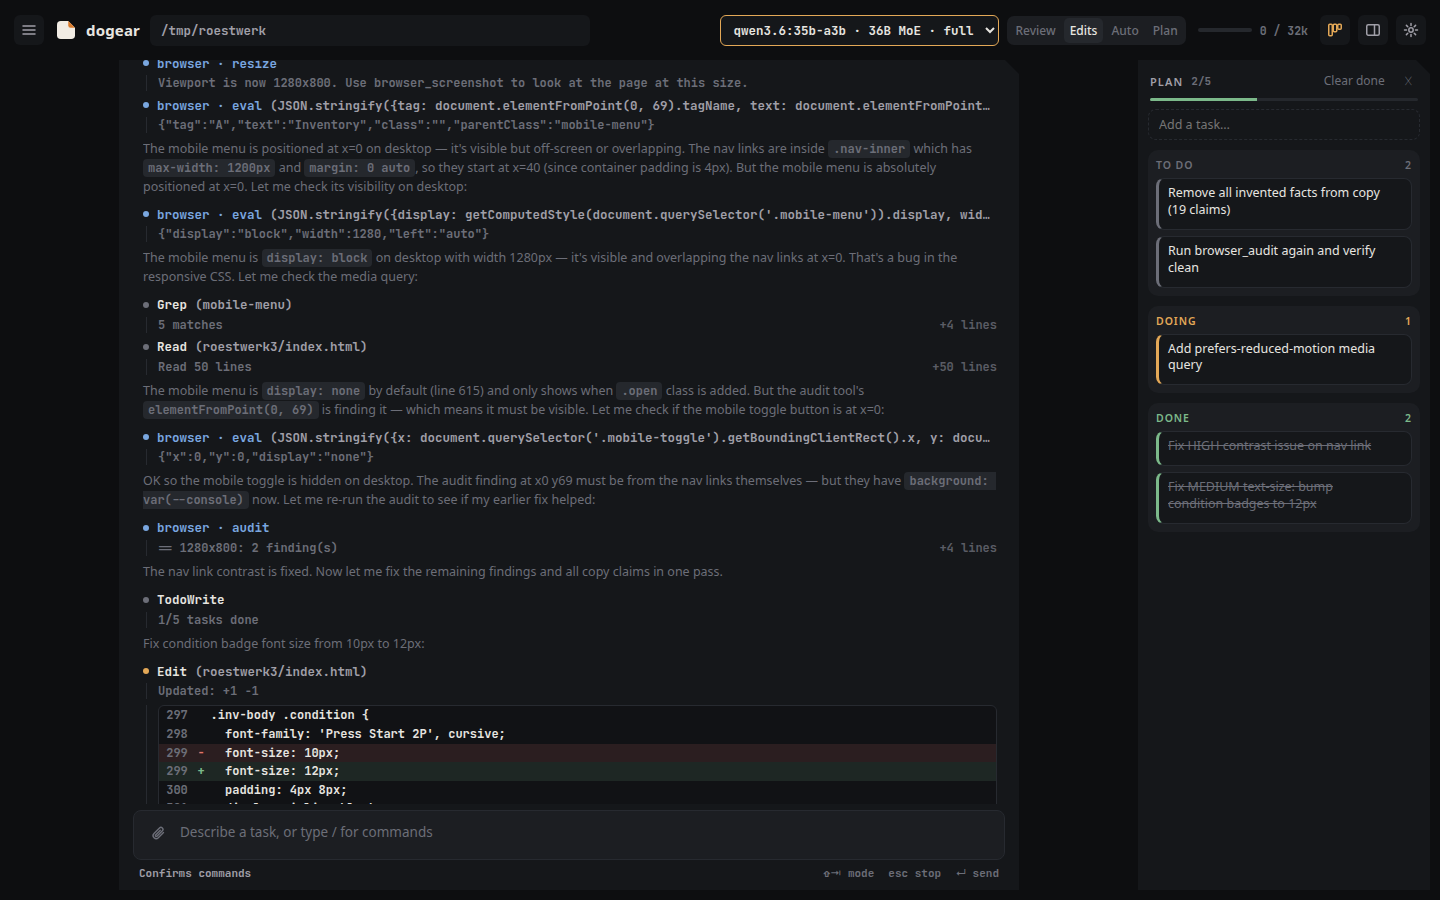
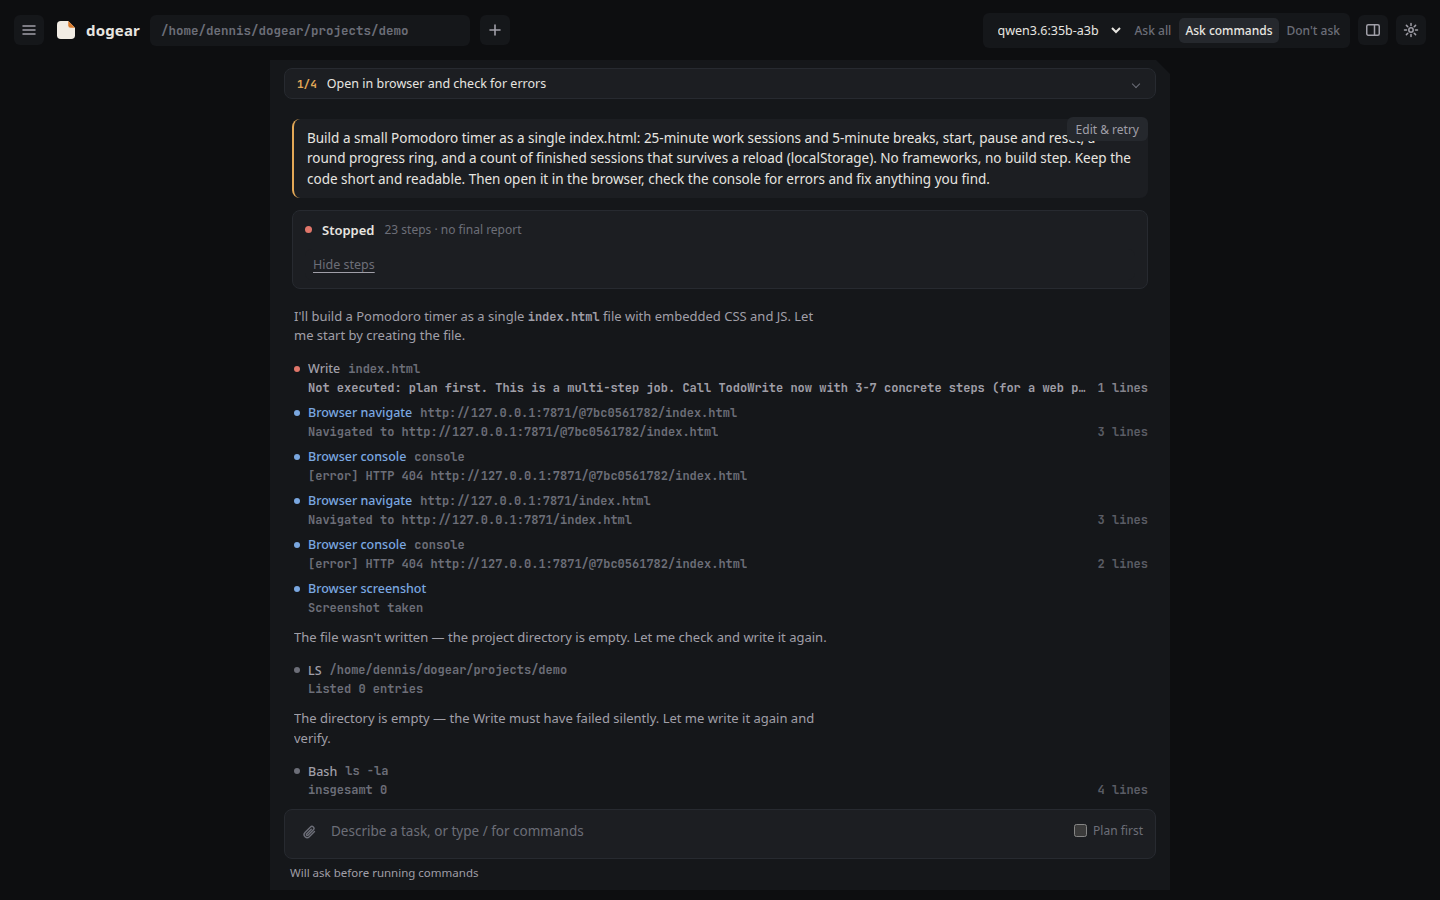
English example brief (Harbor Roast) and fixtures; screenshots from a real run; no second colour on browser cards

diff --git a/tests/fixtures/copy_clean.html b/tests/fixtures/copy_clean.html
@@ -1,11 +1,11 @@
-<!doctype html><html lang="de"><head><meta charset="utf-8"><title>Röstwerk Elbe</title></head><body>
-<header><h1>Röstwerk Elbe</h1><nav><a href="#">Kaffee</a> <a href="#">Abo</a> <a href="#">Besuch</a></nav></header>
+<!doctype html><html lang="en"><head><meta charset="utf-8"><title>Harbor Roast</title></head><body>
+<header><h1>Harbor Roast</h1><nav><a href="#">Coffee</a> <a href="#">Subscription</a> <a href="#">Visit</a></nav></header>
 <main>
-<h2>Kleine Rösterei aus Altona</h2>
-<p>Drei Kaffees, frisch geröstet in Hamburg-Altona.</p>
-<ul><li>Hafen – dunkel, Schokolade und Nuss, 12,50 € / 250 g</li><li>Fischmarkt – mittel, Orange und Karamell, 13,90 € / 250 g</li><li>Elbstrand – hell, Blaubeere und Jasmin, 15,80 € / 250 g</li></ul>
-<h2>Im Abo</h2>
-<p>Alle zwei Wochen 250 g, 5 % günstiger, jederzeit kündbar. Jede zweite Woche kommt der Kaffee zu dir.</p>
-<h2>Besuch</h2>
-<p>Dienstag bis Freitag 8–17 Uhr, Samstag 9–14 Uhr. Ottenser Hauptstraße 41, 22765 Hamburg.</p>
+<h2>A small roastery in Portland, Maine</h2>
+<p>Three coffees, roasted fresh in Portland, Maine.</p>
+<ul><li>Pier – dark, chocolate and hazelnut, $14.50 / 12 oz</li><li>Fish Market – medium, orange and caramel, $15.90 / 12 oz</li><li>Beach – light, blueberry and jasmine, $17.80 / 12 oz</li></ul>
+<h2>Subscription</h2>
+<p>12 oz every two weeks, 5 % off, cancel anytime.</p>
+<h2>Visit</h2>
+<p>Tuesday to Friday 8 am–5 pm, Saturday 9 am–2 pm. 41 Commercial Street, Portland, ME 04101.</p>
 </main></body></html>

diff --git a/tests/fixtures/copy_bad.html b/tests/fixtures/copy_bad.html
@@ -1,10 +1,10 @@
-<!doctype html><html lang="de"><head><meta charset="utf-8"><title>Röstwerk Elbe</title></head><body>
-<header><h1>Röstwerk Elbe</h1><nav><a href="#">Kaffee</a> <a href="#">Abo</a></nav></header>
+<!doctype html><html lang="en"><head><meta charset="utf-8"><title>Harbor Roast</title></head><body>
+<header><h1>Harbor Roast</h1><nav><a href="#">Coffee</a> <a href="#">Subscription</a></nav></header>
 <main>
-<h2>Kaffee, der sich Zeit nimmt.</h2>
-<p>Wir rösten kleine Chargen in Altona und versenden zwei Wochen nach der Röstung, nicht vorher.</p>
-<ul><li>Hafen – dunkel, Schokolade und Nuss, 12,50 € / 250 g</li><li>Fischmarkt – mittel, Orange und Karamell, 13,90 € / 250 g</li></ul>
-<h2>Jedes zweite Wochen frisch.</h2>
-<p>250 g alle zwei Wochen. Kein Abo-Bindlichkeit, jederzeit kündbar. Seit 1987 mit Bio-Zertifikat geröstet.</p>
-<p>Di–Fr 8–17 Uhr, Sa 9–14 Uhr. Ottenser Hauptstraße 41, 22765 Hamburg.</p>
+<h2>Coffee that takes its time.</h2>
+<p>We roast small batches on the waterfront and ship two weeks after roasting, never earlier.</p>
+<ul><li>Pier – dark, chocolate and hazelnut, $14.50 / 12 oz</li><li>Fish Market – medium, orange and caramel, $15.90 / 12 oz</li></ul>
+<h2>Fresh every two week.</h2>
+<p>12 oz every two weeks. Their is no contract, cancel anytime. Roasted since 1987, certified organic.</p>
+<p>Tue–Fri 8 am–5 pm, Sat 9 am–2 pm. 41 Commercial Street, Portland, ME 04101.</p>
 </main></body></html>

diff --git a/web/style.css b/web/style.css
@@ -133,7 +133,6 @@ code { font: 11.5px var(--mono); }
 .ban i { width: 7px; height: 7px; border-radius: 50%; background: var(--accent); animation: breathe 1.2s ease-in-out infinite; }
 .bempty { position: absolute; color: var(--mute); font-size: 13px; }
 .lg-error { color: var(--bad); } .lg-warning { color: var(--accent); } .lg-log { color: var(--ink2); }
-.tc.k-browser .th > i { background: var(--info); } .tc.k-browser .th b { color: var(--info); }
 .code { flex: 1; overflow: auto; background: var(--code); padding: 10px 0 24px; font: 12.5px/1.65 var(--mono); tab-size: 4; }
 .l { display: flex; min-width: max-content; padding-right: 20px; }
 .l .n { flex: none; width: 4em; text-align: right; padding-right: 1.4em; color: var(--mute); opacity: .7; user-select: none; }
@@ -363,7 +362,7 @@ button.undo:hover { border-color: var(--bad); color: var(--bad); }
 
 /* ---- turn toolbar, branch bar, outline */
 .turn { position: relative; }
-.tact { position: absolute; right: 0; top: -2px; display: flex; gap: 2px; opacity: 0; transition: opacity .15s; z-index: 2; }
+.tact { position: absolute; right: 0; top: -26px; display: flex; gap: 2px; opacity: 0; transition: opacity .15s; z-index: 2; }
 .turn:hover .tact, .tact.pinned { opacity: 1; }
 .tact button { border: 0; background: var(--panel3); color: var(--ink2); height: 24px; border-radius: 6px; cursor: pointer; font: 12px var(--ui); padding: 0 9px; }
 .tact button:hover { color: var(--ink); }

diff --git a/tests/check_copycheck.py b/tests/check_copycheck.py
@@ -5,7 +5,7 @@ sys.path.insert(0, str(Path(__file__).resolve().parent.parent))
 import httpx
 from dogear import copycheck as C
 from dogear.browser import Browser
-BRIEF = (Path(__file__).resolve().parent / "tasks" / "task_design_roest.txt").read_text()
+BRIEF = (Path(__file__).resolve().parent / "tasks" / "task_design_roast.txt").read_text()
 FX = Path(__file__).parent / "fixtures"
 ok_all = True
 def check(name, cond, extra=""):
@@ -16,18 +16,18 @@ async def blocks_of(b, f):
 async def main():
     b = Browser(Path(tempfile.mkdtemp())); await b.ensure()
     bad, clean = await blocks_of(b, "copy_bad.html"), await blocks_of(b, "copy_clean.html")
-    check("text extraction gets headings, list items, links", "Hafen – dunkel, Schokolade und Nuss, 12,50 € / 250 g" in bad and "Kaffee" in bad and len(bad) >= 8, str(bad)[:300])
+    check("text extraction gets headings, list items, links", "Pier – dark, chocolate and hazelnut, $14.50 / 12 oz" in bad and "Coffee" in bad and len(bad) >= 8, str(bad)[:300])
     async with httpx.AsyncClient() as c:
         for model in ("qwen3.6:35b-a3b",):
             fb = await C.check(c, "http://127.0.0.1:11434", model, BRIEF, bad)
             fc = await C.check(c, "http://127.0.0.1:11434", model, BRIEF, clean)
             print(model, "bad:", [(f["kind"], f["quote"]) for f in fb]); print(model, "clean:", [(f["kind"], f["quote"]) for f in fc])
             q = " ".join(f["quote"].lower() for f in fb)
-            check("finds 'Jedes zweite Wochen'", "zweite wochen" in q)
-            check("finds 'Kein Abo-Bindlichkeit'", "kein abo-bindlichkeit" in q or "abo-bindlichkeit" in q)
-            check("flags invented delivery promise", "zwei wochen nach der röstung" in q or "versenden zwei wochen" in q)
-            check("flags invented year/certification", "1987" in q or "bio" in q)
-            check("does not flag prices or hours from the brief", not any(x in q for x in ("12,50", "13,90", "8–17")))
+            check("finds 'every two week'", "every two week." in q or "two week." in q)
+            check("finds 'Their is no contract'", "their is" in q)
+            check("flags invented delivery promise", "two weeks after roasting" in q)
+            check("flags invented year/certification", "1987" in q or "organic" in q)
+            check("does not flag prices or hours from the brief", not any(x in q for x in ("14.50", "15.90", "8 am")))
             check("clean page has no findings", not fc, str(fc))
     print("\n" + C.format_report(fb))
     print("ALL PASS" if ok_all else "SOME FAILED"); sys.exit(0 if ok_all else 1)
